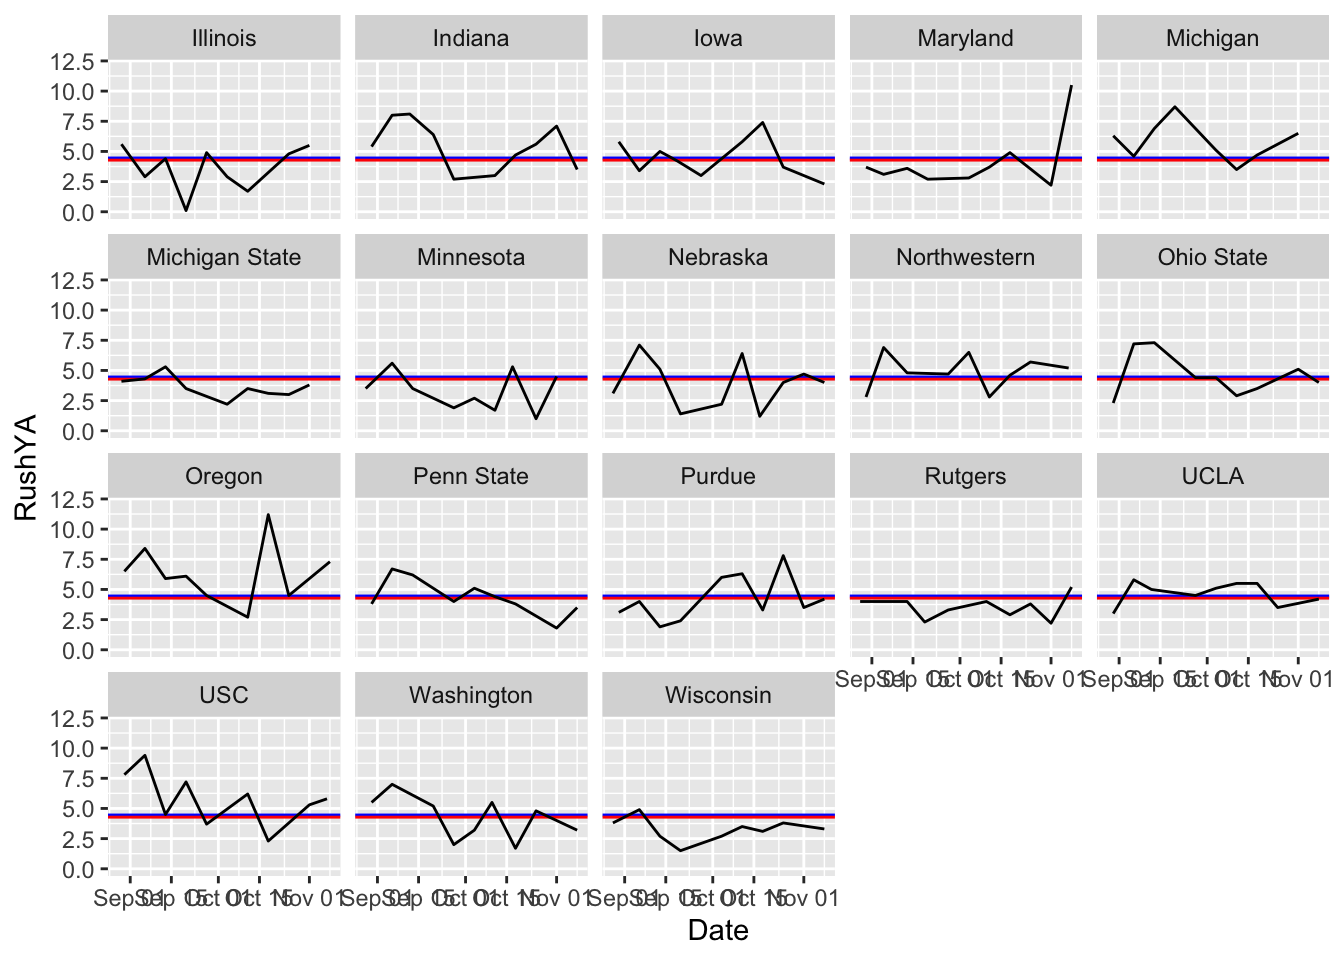
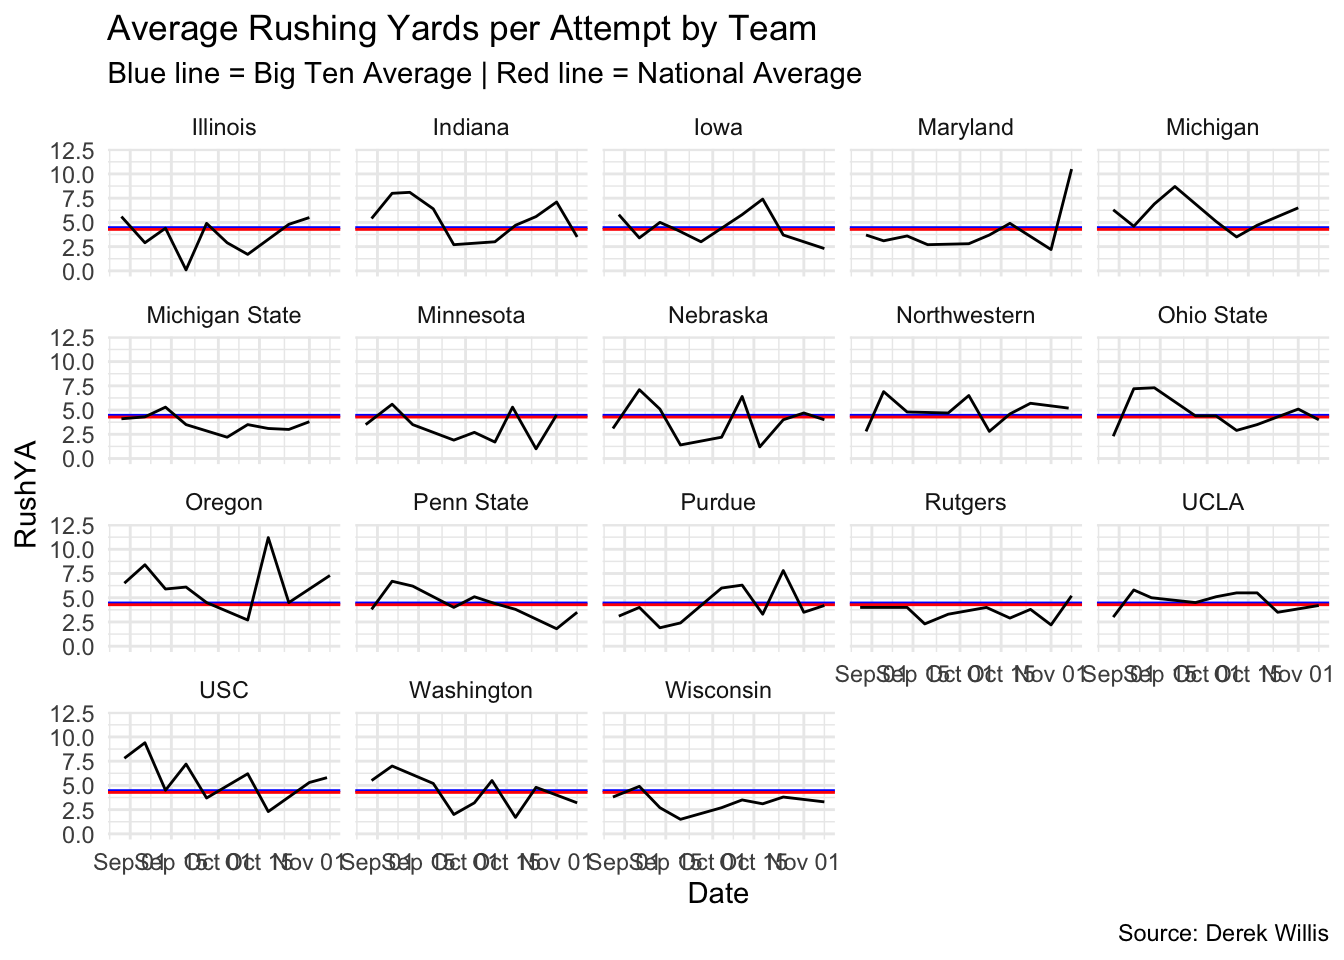
.

diff --git a/docs/posts/facetwrap/index.html b/docs/posts/facetwrap/index.html
@@ -8,7 +8,7 @@
 
 <meta name="author" content="Max Schaeffer">
 
-<title>- – Max Schaeffer - Sports Data</title>
+<title>Good offense in the Big Ten requires a consistent run game – Max Schaeffer - Sports Data</title>
 <style>
 code{white-space: pre-wrap;}
 span.smallcaps{font-variant: small-caps;}
@@ -150,7 +150,7 @@ pre > code.sourceCode > span > a:first-child::before { text-decoration: underlin
 <header id="title-block-header" class="quarto-title-block default page-columns page-full">
   <div class="quarto-title-banner page-columns page-full">
     <div class="quarto-title column-body">
-      <h1 class="title">-</h1>
+      <h1 class="title">Good offense in the Big Ten requires a consistent run game</h1>
                       </div>
   </div>
     
@@ -267,7 +267,13 @@ date  (1): Date
 <span id="cb9-3"><a href="#cb9-3" aria-hidden="true" tabindex="-1"></a>  <span class="fu">geom_hline</span>(<span class="at">yintercept=</span>national_avg, <span class="at">color=</span><span class="st">"red"</span>) <span class="sc">+</span></span>
 <span id="cb9-4"><a href="#cb9-4" aria-hidden="true" tabindex="-1"></a>  <span class="fu">geom_line</span>(<span class="at">data=</span>btn, <span class="fu">aes</span>(<span class="at">x=</span>Date, <span class="at">y=</span>RushYA, <span class="at">group=</span>Team)) <span class="sc">+</span> </span>
 <span id="cb9-5"><a href="#cb9-5" aria-hidden="true" tabindex="-1"></a>  <span class="fu">scale_y_continuous</span>(<span class="at">limits =</span> <span class="fu">c</span>(<span class="dv">0</span>, <span class="dv">12</span>)) <span class="sc">+</span></span>
-<span id="cb9-6"><a href="#cb9-6" aria-hidden="true" tabindex="-1"></a>  <span class="fu">facet_wrap</span>(<span class="sc">~</span>Team) </span></code><button title="Copy to Clipboard" class="code-copy-button"><i class="bi"></i></button></pre></div>
+<span id="cb9-6"><a href="#cb9-6" aria-hidden="true" tabindex="-1"></a>  <span class="fu">facet_wrap</span>(<span class="sc">~</span>Team) <span class="sc">+</span></span>
+<span id="cb9-7"><a href="#cb9-7" aria-hidden="true" tabindex="-1"></a>  <span class="fu">labs</span>(</span>
+<span id="cb9-8"><a href="#cb9-8" aria-hidden="true" tabindex="-1"></a>    <span class="at">title =</span> <span class="st">"Average Rushing Yards per Attempt by Team"</span>,</span>
+<span id="cb9-9"><a href="#cb9-9" aria-hidden="true" tabindex="-1"></a>    <span class="at">subtitle =</span> <span class="st">"Blue line = Big Ten Average | Red line = National Average"</span>,</span>
+<span id="cb9-10"><a href="#cb9-10" aria-hidden="true" tabindex="-1"></a>    <span class="at">caption =</span> <span class="st">"Source: Derek Willis"</span></span>
+<span id="cb9-11"><a href="#cb9-11" aria-hidden="true" tabindex="-1"></a>  ) <span class="sc">+</span></span>
+<span id="cb9-12"><a href="#cb9-12" aria-hidden="true" tabindex="-1"></a>  <span class="fu">theme_minimal</span>()</span></code><button title="Copy to Clipboard" class="code-copy-button"><i class="bi"></i></button></pre></div>
 </details>
 <div class="cell-output-display">
 <div>

diff --git a/docs/index.html b/docs/index.html
@@ -294,7 +294,7 @@ Max Schaeffer
 </a>
 </div>
 </div>
-<div class="quarto-post image-right" data-index="4" data-listing-file-modified-sort="1763062818724" data-listing-reading-time-sort="2" data-listing-word-count-sort="244">
+<div class="quarto-post image-right" data-index="4" data-listing-file-modified-sort="1763063261439" data-listing-reading-time-sort="2" data-listing-word-count-sort="287">
 <div class="thumbnail"><a href="./posts/facetwrap/index.html" class="no-external">
 
 <p class="card-img-top"><img src="posts/facetwrap/index_files/figure-html/unnamed-chunk-3-1.png"  class="thumbnail-image card-img"/></p>
@@ -302,7 +302,7 @@ Max Schaeffer
 </a></div>
 <div class="body">
 <h3 class="no-anchor listing-title">
-<a href="./posts/facetwrap/index.html" class="no-external">-</a>
+<a href="./posts/facetwrap/index.html" class="no-external">Good offense in the Big Ten requires a consistent run game</a>
 </h3>
 <div class="delink listing-description"><a href="./posts/facetwrap/index.html" class="no-external">
 Football in the Big Ten has traditionally been known for it’s midwest less glamorous ground-and-pound defense heavy style. This year, the conference’s elite have mostly…
